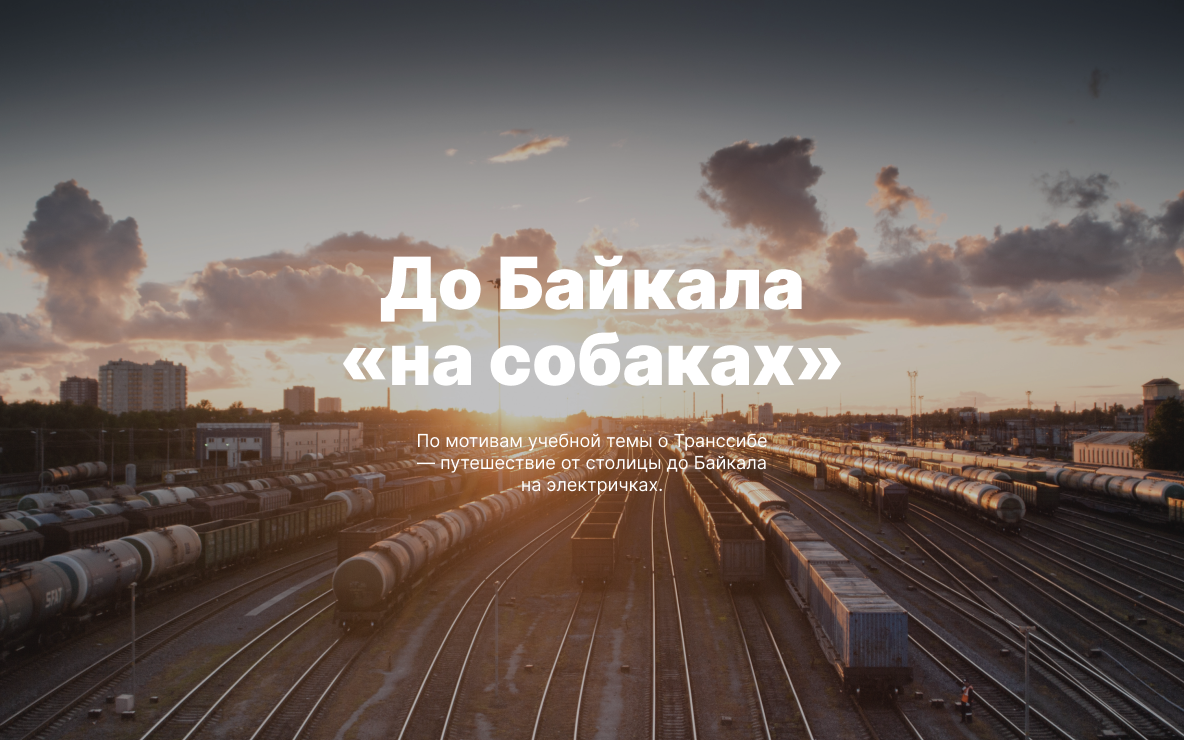
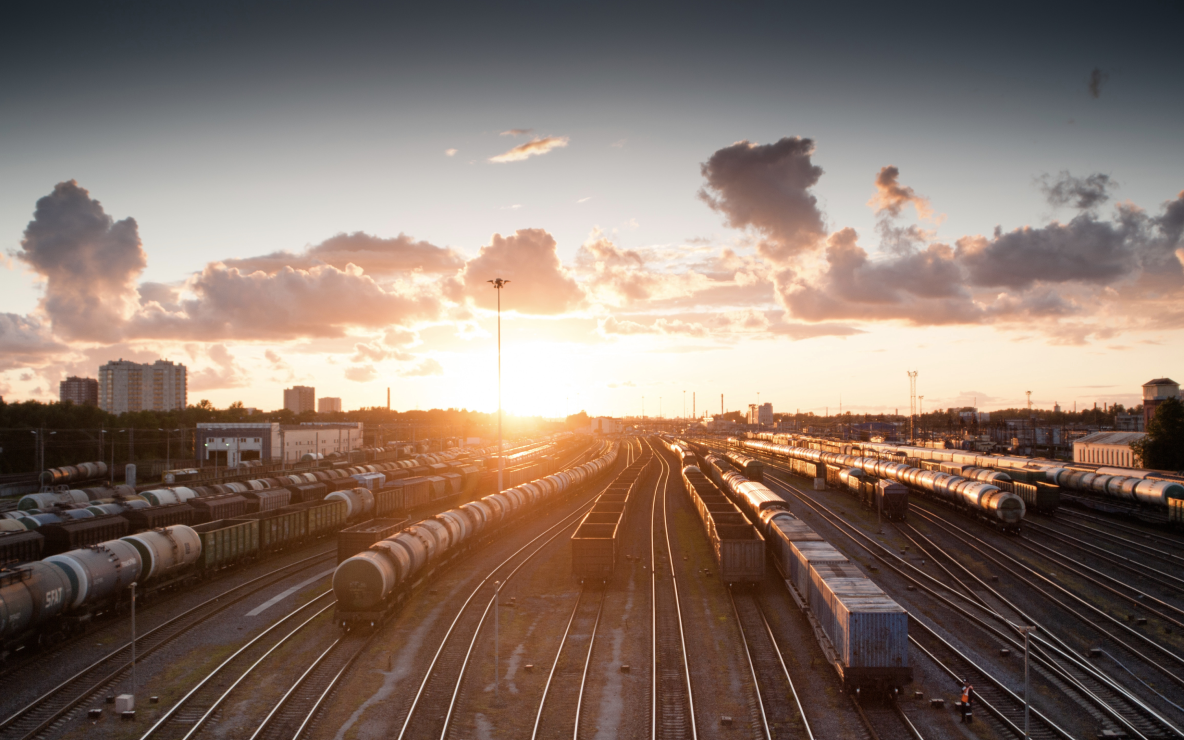
Cover

diff --git a/index.html b/index.html
@@ -11,9 +11,9 @@
     <div class="page">
         <header class="header">
             <div class="header__logo"></div>
-            <p class="header__lang"> 
-                RU 
-                ENG 
+            <p class="header__lang">
+                RU
+                ENG
             </p>
         </header>
 
@@ -32,7 +32,7 @@
                     ещё увидеть все эти красоты можно без миллионов на счету, загранпаспорта и многочасовых перелетов.
                     Как, например, Вера Башмакова — смелая молодая мама, которая взяла в охапку троих детей, усадила их
                     в свою «Ладу» и проехала 20 тысяч километров по родной стране. Мы выбрали и описали некоторые
-                    интересные места, достойные вашего отпуска. </p> 
+                    интересные места, достойные вашего отпуска. </p>
                 <ul class="intro__list">
                     <li class="intro__list-item">Часовых поясов 11</li>
                     <li class="intro__list-item">Объектов природного наследия ЮНЕСКО 12</li>
@@ -57,57 +57,145 @@
                 <img class="photo-grid__item" src="./img/photo-grid/__item (11).png" alt="picture">
 
             </section>
-            
+
             <section class="places">
                 <div class="places__place">
-                        <div class="places__flex-row">
+                    <div class="places__flex-row">
                         <h2 class="places__title">Куршская коса</h2>
                         <div class="places__website">
                             <p>URL</p>
                             <a href="">park-kosa.ru</a>
                         </div>
-                </div> 
-                <div class="places__flex-row">       
+                    </div>
+                    <div class="places__flex-row">
                         <img src="./img/place/kosa.png">
                         <div class="places__paragraph">
-                        <p class="places__text">Здесь, посреди лесов и песчаных дюн, вы сможете увидеть два водных горизонта — спокойного Куршского залива с одной стороны и подёрнутого рябью волн Балтийского моря с другой. Уникальная природная зона на краю российского анклава.</p>
-                        <p class="places__text">На этом Калининградская область не заканчивается. Для путешественника и исследователя там же по соседству — самая западная точка России, Балтийская коса, — и немецкое наследие россыпи небольших приморских городов. Атмосфера здешних мест исключает суету, окуная в спокойствие природы и запах стального, прохладного моря.</p>
-                    </div>
-                </div>   
-                    <div class="places__flex.row">
-                        <h2 class="places__title">Кольский</h2>
-                        <img src="">
-                        <p></p>
-                        <p></p>
-                    </div>
-                    <div class="places__flex.row">
-                        <h2 class="places__title">Алтай</h2>
-                        <img src="">
-                        <p></p>
-                        <p></p>
-                    </div>
-                    <div class="places__flex.row">
-                        <h2 class="places__title">Зимний Байкал</h2>
-                        <img src="">
-                        <p></p>
-                        <p></p>
-                    </div>
-                    <div class="places__flex.row">
-                        <h2 class="places__title">Карелия</h2>
-                        <img src="">
-                        <p></p>
-                        <p></p>
+                            <p class="places__text">Здесь, посреди лесов и песчаных дюн, вы сможете увидеть два водных
+                                горизонта — спокойного Куршского залива с одной стороны и подёрнутого рябью волн
+                                Балтийского моря с другой. Уникальная природная зона на краю российского анклава.</p>
+                            <p class="places__text">На этом Калининградская область не заканчивается. Для
+                                путешественника и исследователя там же по соседству — самая западная точка России,
+                                Балтийская коса, — и немецкое наследие россыпи небольших приморских городов. Атмосфера
+                                здешних мест исключает суету, окуная в спокойствие природы и запах стального,
+                                прохладного моря.</p>
+                        </div>
                     </div>
 
-                </div>
+                    <div class="places__place">
+                        <div class="places__flex-row">
+                            <h2 class="places__title">Кольский</h2>
+                            <div class="places__website">
+                                <p>URL</p>
+                                <a href="">National Geographic</a>
+                            </div>
+                        </div>
+                        <div class="places__flex-row">
+                            <img src="./img/place/kolskiy.png">
+                            <div class="places__paragraph">
+                                <p class="places__text">Почти весь полуостров находится за Полярным кругом. Саамская
+                                    тундра, от которой на юг —
+                                    тайга, а на север — Ледовитый океан, прикидывающийся Баренцевым морем.</p>
+                                <p class="places__text">Возможно, вы смотрели Звягинцева и даже слышали историю
+                                    арктического фестиваля в Териберке. Возможно, слово «Хибины» не осталось под снегом
+                                    школьных воспоминаний об уроках географии. Возможно, вы не интересовались
+                                    пронизывающей земную кору сверхглубокой скважиной, а от апатитов вас давно накрывает
+                                    апатия. Но ваша мечта увидеть северное сияние начинает сбываться с билетом
+                                    в Мурманск.</p>
+                            </div>
+                        </div>
 
+                        <div class="places__place">
+                            <div class="places__flex-row">
+                                <h2 class="places__title">Алтай</h2>
+                                <div class="places__website">
+                                    <p>URL</p>
+                                    <a href="">YouTube</a>
+                                </div>
+                            </div>
+                            <div class="places__flex-row">
+                                <img src="./img/place/altay.png">
+                                <div class="places__paragraph">
+                                    <p class="places__text">Алтай — одно из красивейших мест в России.
+                                        В первую очередь из-за гор: если ехать вдоль хребта, вы увидите склоны,
+                                        усыпанные соснами, горные реки и озёра. А если вы откроете в автомобиле окна,
+                                        сможете познакомиться с невидимым чудом здешних мест — горным воздухом.</p>
+                                    <p class="places__text">Климат на Алтае умеренный, поэтому ехать сюда лучше всего
+                                        летом. Так вы увидите всё разнообразие местной флоры и фауны. По лесам Алтая
+                                        бродят лоси, над хребтами летают орлы, а на равнинах пасутся косули. И
+                                        знаменитые манулы — тоже обитатели Алтайского края.</p>
+                                </div>
+                            </div>
+
+                            <div class="places__place">
+                                <div class="places__flex-row">
+                                    <h2 class="places__title">Зимний Байкал</h2>
+                                    <div class="places__website">
+                                        <p>URL</p>
+                                        <a href="">https://vk.com/baikalmile</a>
+                                    </div>
+                                </div>
+                                <div class="places__flex-row">
+                                    <img src="./img/place/baykal.png">
+                                    <div class="places__paragraph">
+                                        <p class="places__text">Всем известен Байкал как крупнейшее озеро
+                                            в мире. Многие также знают, что это самый большой источник пресной воды и
+                                            одно из красивейших мест в России.</p>
+                                        <p class="places__text">НКонечно, это всё так. Но Байкал ещё идеальное место
+                                            для соревнований по скийорингу. Это такой вид спорта, когда лыжник
+                                            привязывает себя
+                                            к мотоциклу, и тандем старается развить как можно бóльшую скорость на льду.
+                                            В марте 2019 года на фестивале «Байкальская миля» был поставлен мировой
+                                            рекорд — 197.011 км/ч.</p>
+                                    </div>
+                                </div>
+
+                                <div class="places__place">
+                                    <div class="places__flex-row">
+                                        <h2 class="places__title">Карелия</h2>
+                                        <div class="places__website">
+                                            <p>URL</p>
+                                            <a href="">http://vodlozero.ru/</a>
+                                        </div>
+                                    </div>
+                                    <div class="places__flex-row">
+                                        <img src="./img/place/karelya.png">
+                                        <div class="places__paragraph">
+                                            <p class="places__text">Сибирь заканчивается не на Урале, а в Карелии:
+                                                образующая тайгу сибирская лиственница не растёт западнее Водлозера.
+                                                Зато здесь она вымахивает на 30 метров — леса карельских национальных
+                                                парков из-за непроходимых болот никогда не знали топора. Некоторым
+                                                соснам уже больше чем полтысячелетия. Прикоснитесь к живому существу,
+                                                видевшему солнце раньше, чем увидал его Иван Грозный.
+                                            </p>
+                                            <p class="places__text">В девственном лесу на сотню километров не встретишь
+                                                тропы. А на редких
+                                                тропинках деревья
+                                                в паре метров от земли помечены медвежьими когтями. Чтобы все знали, кто
+                                                тут хозяин.</p>
+                                        </div>
+                                    </div>
+                                </div>
             </section>
 
-   
 
-        <footer>
+    </div>
+    <section class="cover">
+    <div class="cover__background">
+        <img src="./img/cover.png" class="cover__image" alt="Станция">
+        <p class="cover__tittle">До Байкала «на собаках»</p>
+        <p class="cover__subtittle">По мотивам учебной темы о Транссибе — путешествие от столицы до Байкала на электричках.</p>
+    </div>
+    </section>
+    <section class="cover__background">
 
-        </footer>
+  
+
+
+    </main>
+
+    <footer>
+
+    </footer>
     </div>
 
 </body>

diff --git a/blocks/cover/__tittle/cover__tittle.css b/blocks/cover/__tittle/cover__tittle.css
@@ -1,0 +1,31 @@
+.cover__tittle {
+
+    margin-block-start: 0;
+    margin-block-end: 0;
+    font-family: Inter;
+    
+width: 560px;
+    font-size: 72px;
+    font-weight: 900;
+    line-height: 76px;
+    letter-spacing: 0em;
+    text-align: center;
+    margin: 0 auto;
+color: white; 
+
+
+
+/* margin-block-start: 0;
+    margin-block-end: 0;
+    color: white;
+font-size: 96px;
+font-weight: 900;
+line-height: 100px;
+letter-spacing: 0em;
+text-align: center;
+width: 984px;
+margin: 0 auto;
+ */
+
+
+}

diff --git a/pages/index.css b/pages/index.css
@@ -34,6 +34,13 @@
 @import url(../blocks/photo-grid/__item/photo-grid__item.css);
 
 
+@import url(../blocks/cover/cover.css);
+@import url(../blocks/cover/__overlay/cover__overlay..css);
+@import url(../blocks/cover/__text/cover__text.css);
+@import url(../blocks/cover/__tittle/cover__tittle.css);
+@import url(../blocks/cover/__subtittle/cover__subtittle.css);
+@import url(../blocks/cover/__background/cover__background.css);
+
 
 
 

diff --git a/blocks/places/__title/places__title.css b/blocks/places/__title/places__title.css
@@ -1,11 +1,12 @@
 .places__title {
     font-family: Inter;
     font-size: 72px;
-    font-weight: 900;
+    font-weight: 900px;
     line-height: 76px;
     letter-spacing: 0em;
     text-align: left;  
     color: white;
-    max-width: 460px;
+    width: 460px;
+    margin-top: 60px;
 
 }

diff --git a/blocks/lead/__title/lead__title.css b/blocks/lead/__title/lead__title.css
@@ -1,5 +1,5 @@
 .lead__title {
-    margin-block-start: 0;
+margin-block-start: 0;
     margin-block-end: 0;
     color: white;
 font-size: 96px;
@@ -7,5 +7,7 @@ font-weight: 900;
 line-height: 100px;
 letter-spacing: 0em;
 text-align: center;
+width: 984px;
+margin: 0 auto;
 
 }

diff --git a/blocks/cover/__subtittle/cover__subtittle.css b/blocks/cover/__subtittle/cover__subtittle.css
@@ -1,0 +1,14 @@
+.cover__subtittle {
+    
+    margin-block-start: 0;
+    margin-block-end: 0;
+    font-family: Inter;
+    width: 360px;
+font-size: 18px;
+font-weight: 400;
+line-height: 22px;
+letter-spacing: 0em;
+text-align: center;
+margin: 0 auto;
+color: white;
+}

diff --git a/blocks/places/__place/places__place.css b/blocks/places/__place/places__place.css
@@ -2,7 +2,7 @@
     /* width: 984px; */
 }
 
-@media screen and (min-width: 767px) and (max-width: 1024px) {
+@media screen and (min-width: 767px) and (max-width: 984px) {
     .places__place {
         width: 500px;
         margin: 0 auto ;

diff --git a/blocks/cover/__background/cover__background.css b/blocks/cover/__background/cover__background.css
@@ -1,0 +1,10 @@
+.cover__background {
+/*  display: flex; */
+  width: 1184px;
+  background: #2A2C2F;
+}
+
+.cover__background img {
+	width: 100%;
+	opacity: 70%;
+}

diff --git a/blocks/cover/cover.css b/blocks/cover/cover.css
@@ -1,0 +1,9 @@
+.cover {
+    display: flex;
+    width: 1184px;
+/*     height: 740px; */
+    padding-top: 60px;
+    margin: 0 auto;
+
+
+}

diff --git a/blocks/cover/__text/cover__text.css b/blocks/cover/__text/cover__text.css
@@ -1,0 +1,6 @@
+.cover__text {
+    position: absolute;
+    top: 50%;
+    left: 50%;
+    transform: translate(-50%, -50%);
+}

diff --git a/blocks/places/__text/places__text.css b/blocks/places/__text/places__text.css
@@ -6,4 +6,5 @@ line-height: 29px;
 letter-spacing: 0em;
 text-align: left;
 color: white;
+margin-top: 0;
 }

diff --git a/blocks/places/__paragraph/places__paragraph.css b/blocks/places/__paragraph/places__paragraph.css
@@ -1,4 +1,4 @@
 .places__paragraph {
     width: 780px;
-    height: 460px;
+    /* height: 460px; */
 }
